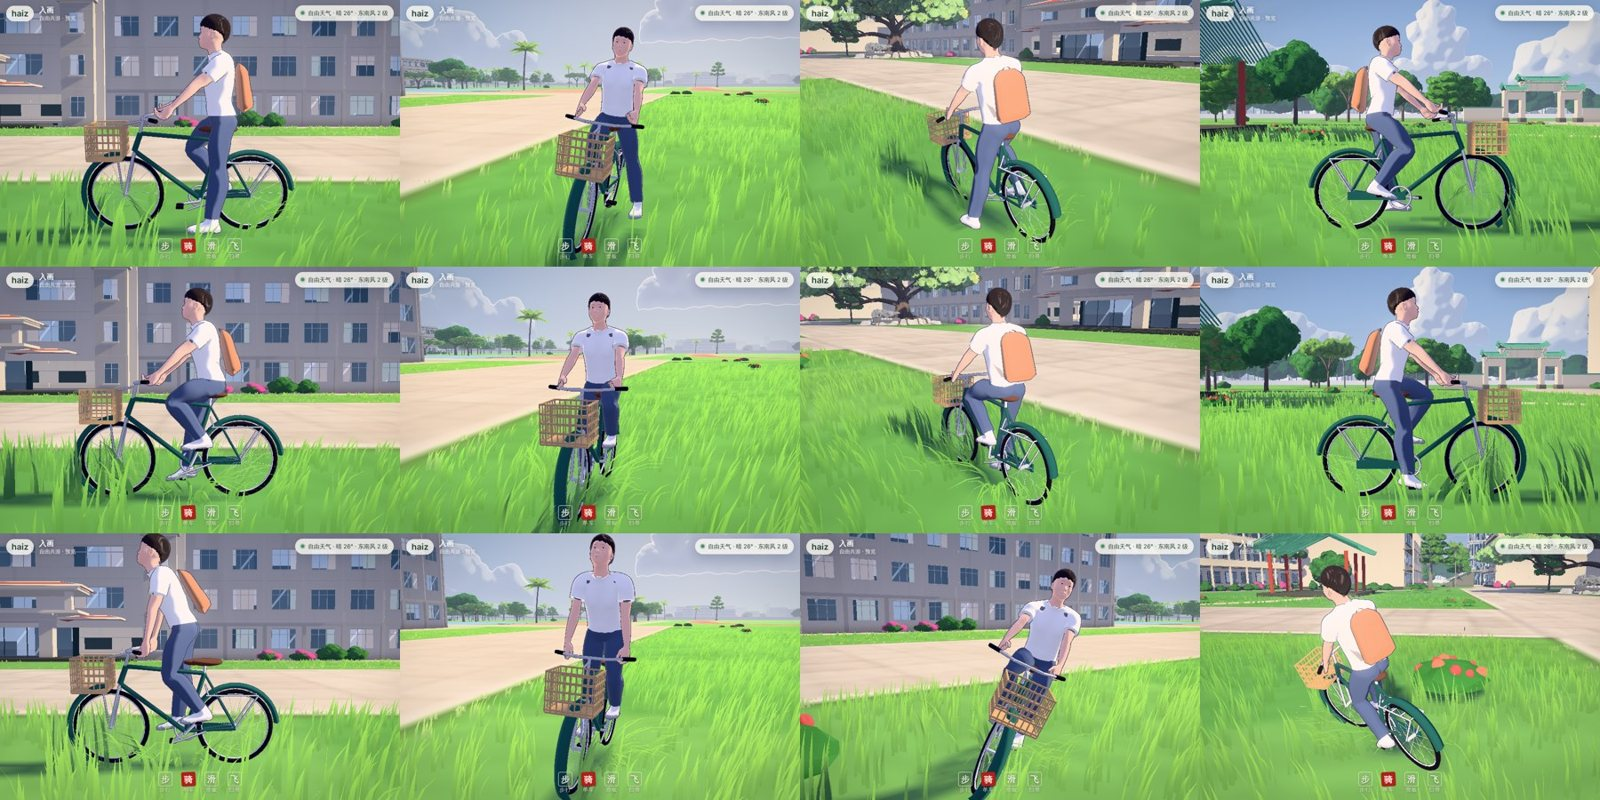
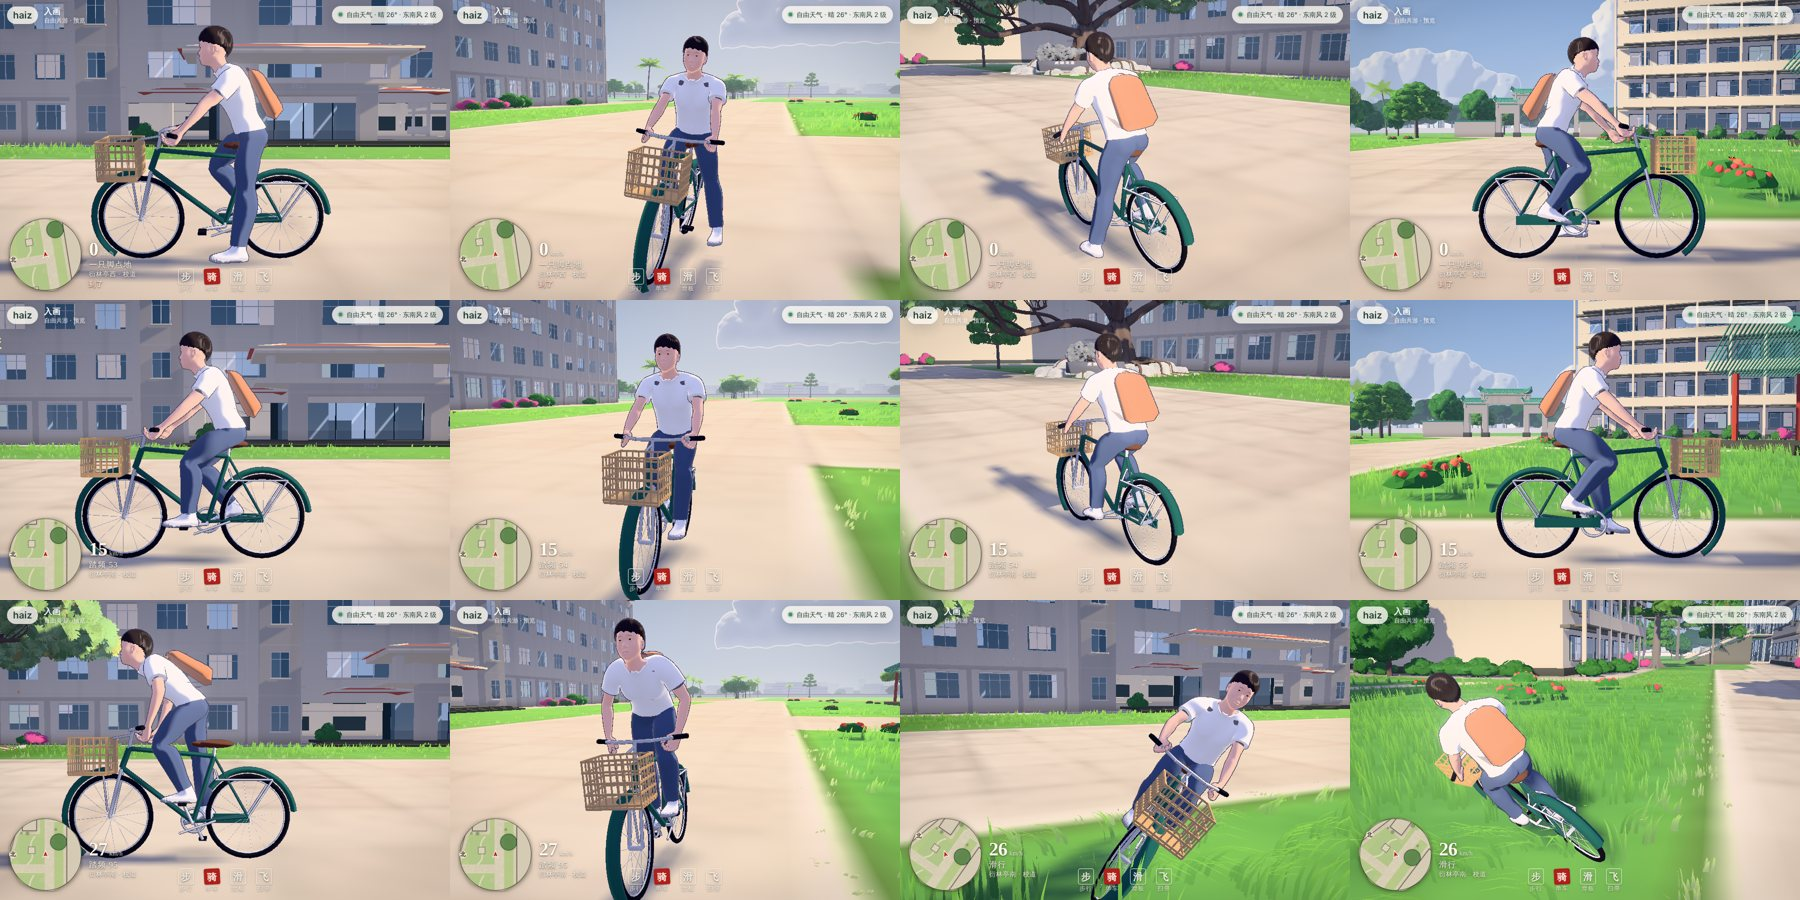
fix(free): broom ceiling from the ground, hands reach the bars, firmer bike start; tests 23/23, docs
Claude-Session: https://claude.ai/code/session_01KSor8XEQEtJgVHFVQx6t8j

diff --git a/lanren/free/ride.js b/lanren/free/ride.js
@@ -222,7 +222,8 @@ export function createRide(ctx) {
     const target = inp.ay > 0.1 ? (stand ? BIKE.sprint : BIKE.cruise) * Math.min(1, inp.ay * 1.15) * (surf === 'lawn' ? 0.72 : 1) : 0;
     let a = -rolling - 0.004 * S.speed * S.speed;
     S.pedalling = damp(S.pedalling, inp.ay > 0.1 && S.speed < target + 0.3 ? 1 : 0, 6, dt);
-    if (inp.ay > 0.1 && S.speed < target) a += BIKE.accel * (stand ? 1.45 : 1) * (1 - S.speed / Math.max(target, 0.1)) + 0.4;
+    // a push on the pedals: firm from a standstill, easing off as the cadence reaches the cruise
+    if (inp.ay > 0.1 && S.speed < target) a += Math.min(BIKE.accel, (target - S.speed) * 1.3 + 0.35) * (stand ? 1.45 : 1) + rolling;
     if (inp.brake && inp.ay < -0.1) a -= BIKE.brake * Math.min(1, -inp.ay * 1.3);
     if (S.phase === 'stop') a -= BIKE.brake;
     S.speed = clamp(S.speed + a * dt, 0, BIKE.max);
@@ -235,7 +236,7 @@ export function createRide(ctx) {
     S.turnRate = S.speed * kappa;
     S.yaw = wrap(S.yaw + S.turnRate * dt);
     // the lean that balances the turn, reached a moment late
-    const leanT = clamp(-Math.atan(S.speed * S.speed * kappa / G), -0.62, 0.62);
+    const leanT = clamp(-Math.atan(S.speed * S.speed * kappa / G), -0.5, 0.5);
     S.lean = damp(S.lean, leanT, 5.5, dt);
     // moving: slide along walls
     const fx = Math.sin(S.yaw), fz = Math.cos(S.yaw);
@@ -323,8 +324,13 @@ export function createRide(ctx) {
       g.add(_d.set(sd === 'L' ? -0.025 : 0.025, 0.025, -0.05));
       hands[sd] = { at: toWorld(body, g, new THREE.Vector3()), pole: _b.set(sd === 'L' ? 0.75 : -0.75, -0.5, -0.6).applyQuaternion(bq).clone() };
     }
-    rig.pose({ frame: frameQ, hips, pitch: [lean * 0.4, lean * 0.35, lean * 0.3], twist: [S.steer * 0.25 + st * Math.sin(S.crank) * 0.12, -st * Math.sin(S.crank) * 0.1], side: -S.roll * 0.25,
+    const spec = (l) => ({ frame: frameQ, hips, pitch: [l * 0.4, l * 0.35, l * 0.3], twist: [S.steer * 0.25 + st * Math.sin(S.crank) * 0.12, -st * Math.sin(S.crank) * 0.1], side: -S.roll * 0.25,
       look: -0.04 + st * 0.15, headYaw: S.steer * 0.9, feet, hands, curl: 0.8 });
+    rig.pose(spec(lean));
+    // the hands must reach the bars: if the shoulders are too far from the grips, lean in until they are
+    const reach = Math.max(rig.where('upperarm.L', _a).distanceTo(hands.L.at), rig.where('upperarm.R', _b).distanceTo(hands.R.at));
+    const extra = clamp((reach - D.arm * 0.95) / 0.42, 0, 0.6);
+    if (extra > 0.01) { S.reachLean = damp(S.reachLean || 0, extra, 8, 1 / 30); rig.pose(spec(lean + S.reachLean)); }
   }
 
   // ---------------------------------------------------------------- the skateboard
@@ -496,7 +502,10 @@ export function createRide(ctx) {
     }
     if (inp.up || inp.down) S.holdAgl = -1;
     // a soft ceiling: the wind lets you go no higher than the campus can be seen from
-    if (S.agl > BROOM.ceiling - 10 && vyT > 0) vyT *= clamp((BROOM.ceiling - S.agl) / 10, 0, 1);
+    // (measured from the ground, not from a roof one happens to be over)
+    const above = S.pos.y - ground(S.pos.x, S.pos.z);
+    if (above > BROOM.ceiling - 10 && vyT > 0) vyT *= clamp((BROOM.ceiling - above) / 10, 0, 1);
+    if (above > BROOM.ceiling + 1) vyT = Math.min(vyT, -1);
     S.vy = damp(S.vy, vyT, 3.2, dt);
     // move
     const fx = Math.sin(S.yaw), fz = Math.cos(S.yaw);

diff --git a/docs/free-20261122.md b/docs/free-20261122.md
@@ -66,7 +66,7 @@
 不是一个控制器配四个速度。每一种都有决定手感的那部分物理，身体、相机、世界都回应它（`lanren/free/ride.js`）。
 
 **单车**——校园生活的那种车：深绿菱形车架、后拉的城市车把、前面一个藤编车筐、后货架、挡泥板、支架。
-- 转向产生曲率 κ = tan δ / 轴距（1.08 m），车把可转的角度随速度减小（0.62 rad / (1 + 0.32v)）；车身倾斜到重力与转弯的平衡角 tan φ = v²κ/g，**慢半拍**，像真的单车。
+- 转向产生曲率 κ = tan δ / 轴距（1.08 m），车把可转的角度随速度减小（0.62 rad / (1 + 0.32v)）；车身倾斜到重力与转弯的平衡角 tan φ = v²κ/g（上限 0.5 rad），**慢半拍**，像真的单车。
 - 蹬车时曲柄按车轮转速与传动比（2.3）转动；不蹬时曲柄停在水平位置（右脚在前），花鼓**嗒嗒嗒**地响。踏频写在罗盘旁边。
 - 草地阻力是路面的 6 倍，速度上限也低；Shift 站起来蹬，车在身下随每一脚左右摆；停下时左脚落地、车身倾向那只脚。空格打铃（两下，非谐泛音合成），附近的同学会让路或回一句。
 - 巡航 5.4 m/s（约 19 km/h），冲刺 8 m/s。
@@ -102,7 +102,7 @@
 
 具体到每一种：单车——脚踝跟着踏板走圆，踝关节随踏位俯仰（ankling），手握车把并随转向移动，站起蹬时骨盆前移上抬、躯干前压；滑板——侧身站（regular，左脚在前），头转向板头，蹬地时身体转向前方、后脚落地后推，刹车时后脚拖地，转弯时重心移向内侧、手臂张开保持平衡，Ollie 时收腿；扫帚——跨坐，双手一前一后握杆，悬停时双腿下垂轻晃，飞起来后腿收向后方，速度越快身体越压低。
 
-**测试里的精度**：单车上脚踝距踏板、手腕距车把都在 12 cm 以内（目标点本身就在踏板轴上方 7.5 cm、车把握点前 5 cm）。
+**测试里的精度**：骑行中脚踝距踏板 8.3 cm、手腕距车把 6.1 cm（目标点本身就在踏板轴上方 7.5 cm、握点后方约 6 cm——即 IK 完全到位）。手臂够不到时，躯干会自动再前倾一些。
 
 | 单车（站姿 / 骑行 / 站起蹬 / 转弯，四个机位） |
 | --- |
@@ -177,8 +177,8 @@
 
 ## 十一、验证
 
-- `node tests/free/free-browser.cjs`（Chromium + SwiftShader；结果写入 `tests/free/free-browser-results.json`）：见文末结果。检查项：风场的读者（草、草坪、树冠）在编译前打上补丁；三种载具都能召唤、骑上、达到各自的巡航速度区间、右转向右倾、下车回到步行且不在墙里；单车上脚踝距踏板、手腕距车把 < 12 cm；单车全速冲向建筑永远不会进入建筑；扫帚不超过天花板、不出校园；扫帚降落到一号楼屋顶而不穿过；树冠里悬停时「榄仁听风」打开，速写被画出并保存；去图书馆的路线在校道上找到并写在画边；手机上骑车时「铃」「疾」出现；桌面与手机都没有页面错误。
-- 原有 `node tests/life/alive-browser.cjs`（`ruhua-alive.html`）在本分支重新运行——结果见文末。新页面没有修改任何被它引用的文件。
+- `node tests/free/free-browser.cjs`（Chromium + SwiftShader；结果写入 `tests/free/free-browser-results.json`）：**2026-11-22 23/23 通过**。第一次运行有 4 项没过，都是真问题或测试问题，已修正：①扫帚在屋顶上方时高度从屋顶算起，可以爬到「屋顶 + 56 m」（最高测到 71 m）——天花板改为从地面算；②单车静止时左脚落地，测试误把它当成 IK 失误——改为骑行中测量，同时发现**手够不到车把**（差 17 cm），于是加了「够不着就再前倾一点」的第二遍姿态，现在手腕正好在握点（6 cm，就是设计的掌心偏移）；③单车起步加速太软，改为起步有力、接近巡航时收力；④测试地点在草坪上，单车和滑板本来就慢——改到铺装地面。检查项：风场的读者（草、草坪、树冠）在编译前打上补丁；三种载具都能召唤、骑上、达到各自的巡航速度区间、右转向右倾、下车回到步行且不在墙里；单车上脚踝距踏板、手腕距车把 < 12 cm；单车全速冲向建筑永远不会进入建筑；扫帚不超过天花板、不出校园；扫帚降落到一号楼屋顶而不穿过；树冠里悬停时「榄仁听风」打开，速写被画出并保存；去图书馆的路线在校道上找到并写在画边；手机上骑车时「铃」「疾」出现；桌面与手机都没有页面错误。
+- 原有 `node tests/life/alive-browser.cjs`（`ruhua-alive.html`）在本分支重新运行：**11/13 通过，2 项未过**——「一个人按日程走、地图画在同一处」（身体离日程位置 5.35 m）与「活点地图按 M 合上」。这一页在本分支与 `main` 完全相同，也不加载任何新文件，所以这两项与本轮改动无关；更可能是本环境（软件渲染、单机多进程）下对时间敏感的检查，需要在正常环境复核。仓库里的结果文件保持原样（2026-11-21，12/12），没有被这次运行覆盖。
 - 人工检查：四机位姿态截图（第四节）、风场与草（第六节）、飞行（第八节）、手机（第九节），以及上车、下车、模式之间切换的连续性。
 
 ## 十二、还没做好的

diff --git a/START-HERE.md b/START-HERE.md
@@ -43,6 +43,7 @@ npm run test:browser
 | 独立 Node 后端 | [backend/README](backend/README.md) | GitHub Pages **不能运行** Node + SQLite 登录服务；公开站点不等于服务端已经上线 |
 | Flutter Pocket | [app/README](app/README.md) | 安卓安装包见 [GitHub Releases](https://github.com/manyIwant/haiz/releases)，不要误装过时预览版 |
 | 课间窗台 | [windowsill/SOURCE](windowsill/SOURCE.md) | 独立 AGPL-3.0 应用，与其他页面不同许可范围 |
+| 入画 · 自由共游（预览分支） | [ruhua-free.html](ruhua-free.html) · [docs/free-20261122](docs/free-20261122.md) | 步行、单车、滑板、竹扫帚；独立页面，不改动入画与六幕 |
 | 技术与美术记录 | [docs/](docs/) · [DESIGN.md](DESIGN.md) | 先阅读当前设计，旧实施进度可能过时 |
 
 ## 权利、真实性与安全边界
